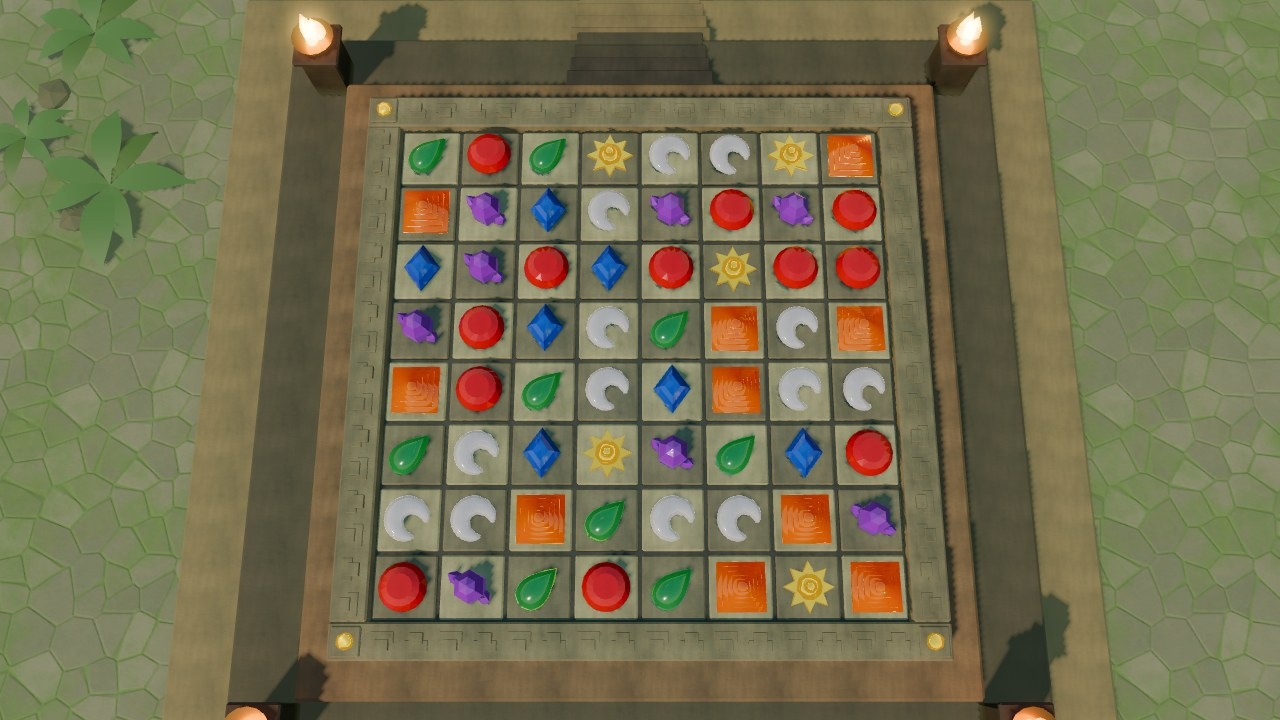
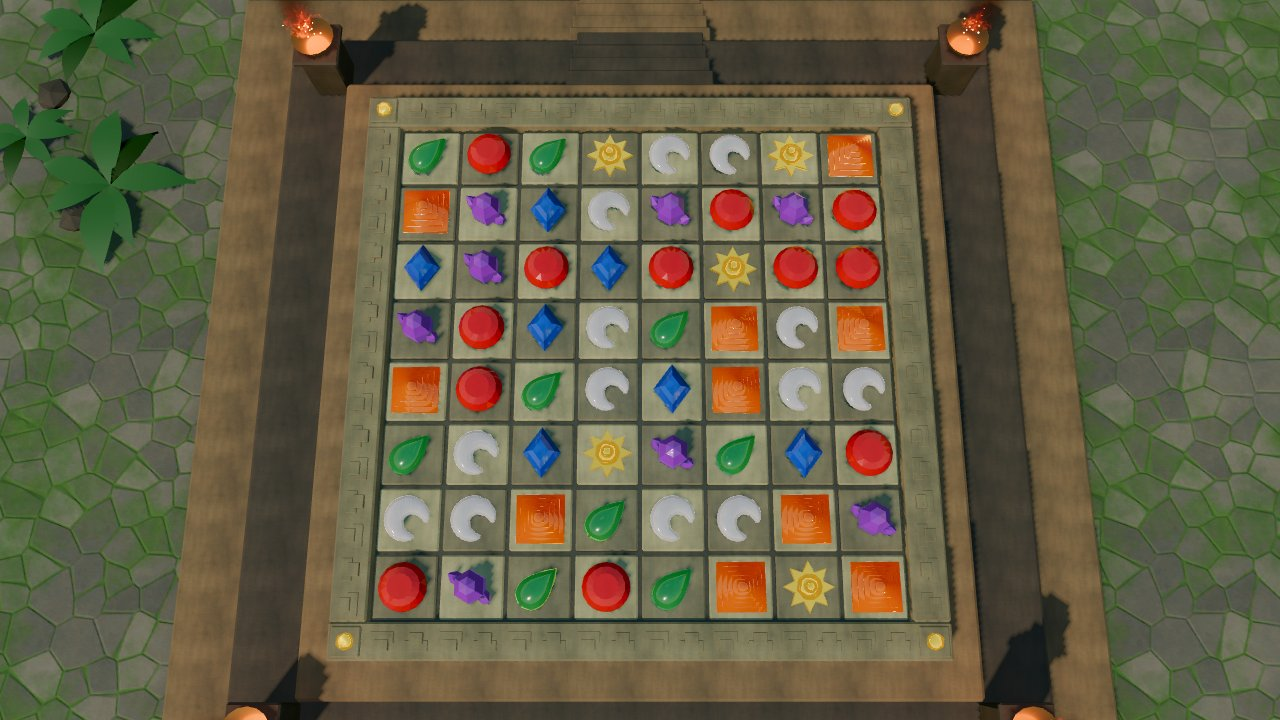
docs(lighting): reference frames on web and desktop-high, readability after the fire merge
Claude-Session: https://claude.ai/code/session_01RyG8kvYYym883z4XYCgPMM

diff --git a/docs/explanation/about-lighting.md b/docs/explanation/about-lighting.md
@@ -86,7 +86,13 @@ benchmark on the reference Mac mini M4 replaces them.
    temple's environment has no fog, and haze in the backdrop comes from
    WP-51's `FogVolume`s, which are kept off the board. A theme can still
    set `lighting.fog` for height fog if its readability capture passes on
-   every tier.
+   every tier. Measured afterwards at 1280 × 720 (software rendering, so
+   look only, not speed), with the WP-49 braziers in: on `web` rule 2
+   passes (mean change 0.003) and rule 4 passes (0.9%); on `desktop-high`
+   rule 2 passes (mean 0.72, p99 4) and rule 4 passes for the atmosphere
+   alone (0.4%), but fails at 12.5% with glow on too, because glow blooms
+   the fire and the gold. Glow, and with it rule 6, belongs to WP-52;
+   rule 5 to WP-48.
 8. **`desktop-high` renders 3D at most 720 lines high.** Above a 720-line
    output the temporal upscaler (MetalFX on Metal, FSR 2.2 elsewhere)
    takes over at 720 / output height, never below 0.5: 0.67 at 1080p, 0.5
